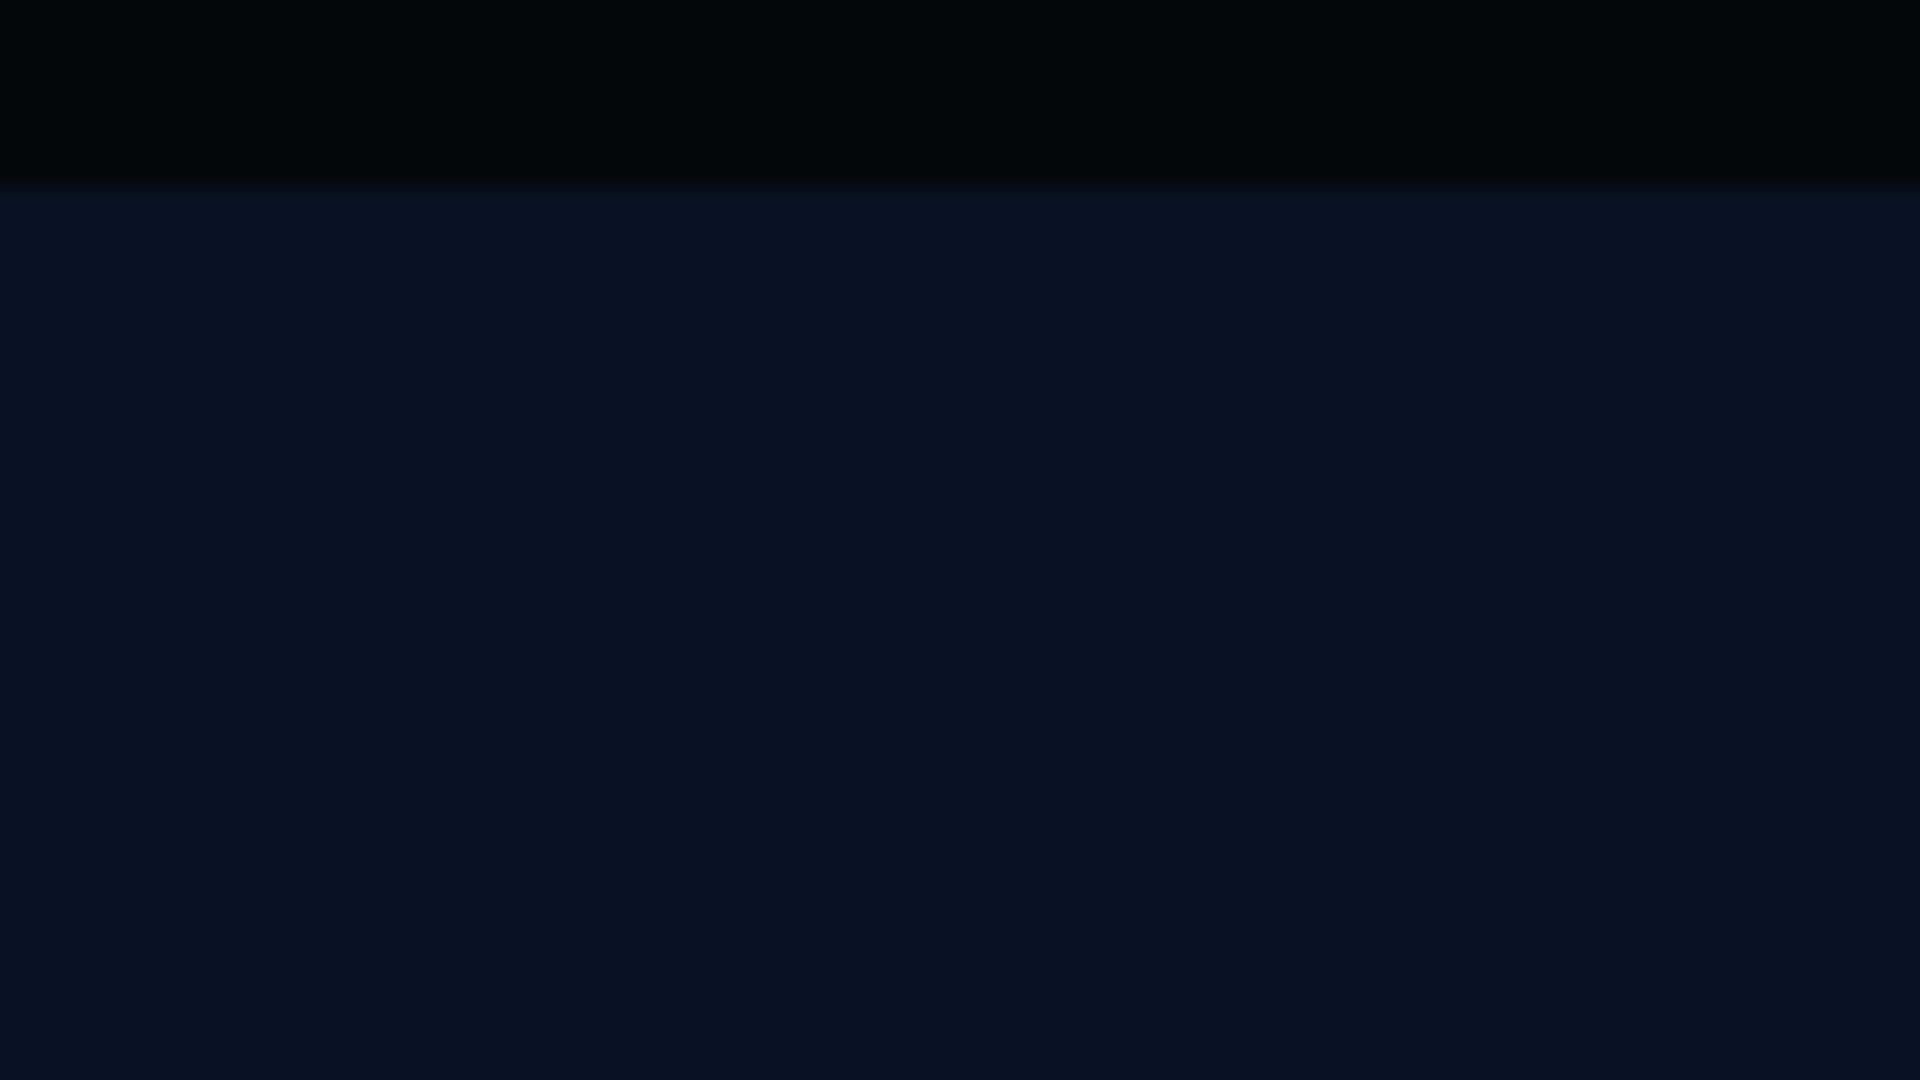
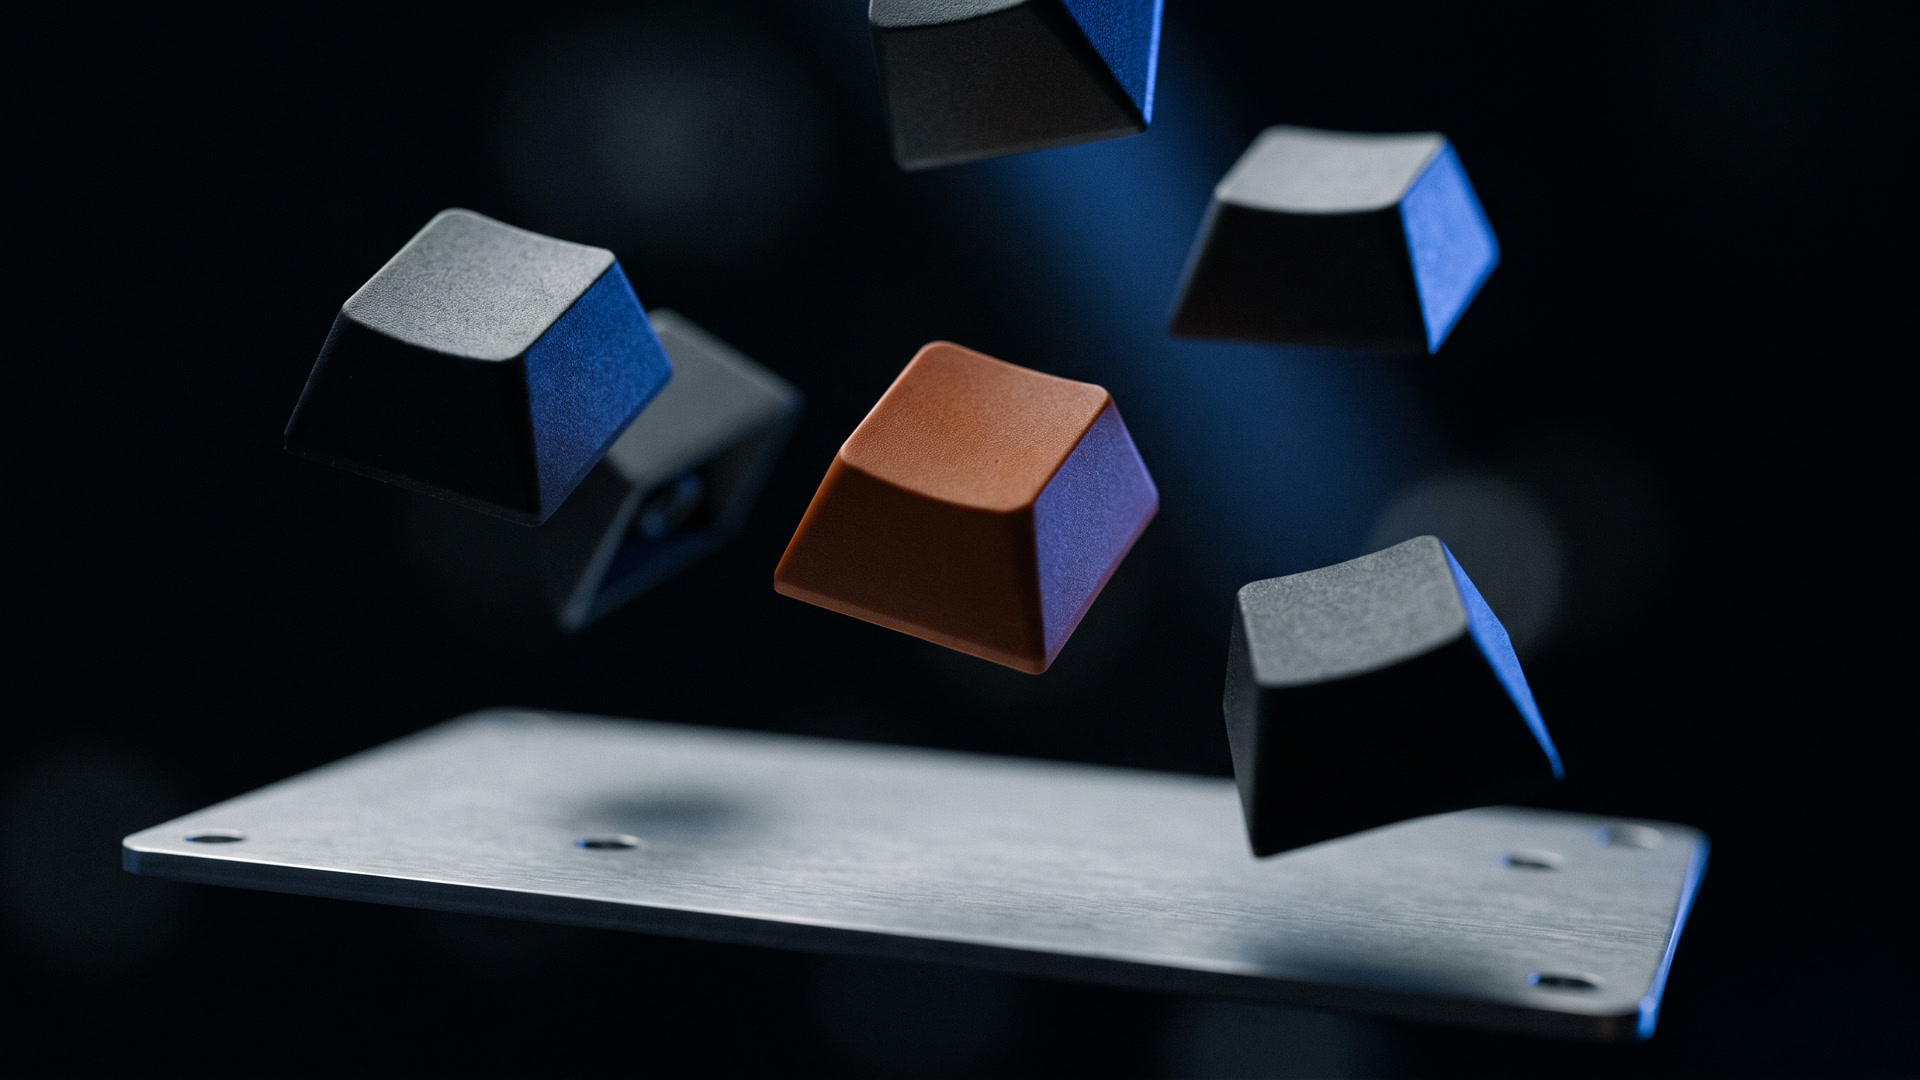
frontend(landing): 히어로 poster를 생성 이미지로 교체, 영상 로드 실패 처리, 미디어 스크립트
- 힉스필드(nano_banana_pro)로 만든 시작 프레임을 hero.jpg / hero-still-a.jpg 로 사용
- useScrubVideo: 모든 <source> 실패 시 failed → 로딩 표시 제거, poster 만 유지
- Hero: 첫 카피가 0%부터 보이도록
- scripts/landing-media.sh: QA 프레임 5장 추출(ffprobe 프레임 수 기준) + 스크러빙용 재인코딩(H.264 GOP6/faststart, VP9, 720p, poster/last/stills)

diff --git a/frontend/src/landing/useScrubVideo.ts b/frontend/src/landing/useScrubVideo.ts
@@ -13,6 +13,7 @@ export function useScrubVideo(progress: MotionValue<number>, enabled = true) {
   const videoRef = useRef<HTMLVideoElement>(null);
   const [ready, setReady] = useState(false);
   const [buffered, setBuffered] = useState(0); // 0..1
+  const [failed, setFailed] = useState(false); // 모든 소스 로드 실패 → poster 만 남긴다
   const target = useRef(0);
   const current = useRef(0);
   const seekPending = useRef(false);
@@ -76,21 +77,31 @@ export function useScrubVideo(progress: MotionValue<number>, enabled = true) {
       if (!Number.isFinite(video.duration) || !video.buffered.length) return;
       setBuffered(Math.min(1, video.buffered.end(video.buffered.length - 1) / video.duration));
     };
+    // <source> 자식을 쓰면 마지막 source 에서 error 가 나고 video 는 NETWORK_NO_SOURCE(3) 가 된다
+    const sources = Array.from(video.querySelectorAll('source'));
+    const onError = () => {
+      if (video.networkState === 3 || video.error) setFailed(true);
+    };
     video.addEventListener('loadedmetadata', onMeta);
     video.addEventListener('seeked', onSeeked);
     video.addEventListener('progress', onProgress);
     video.addEventListener('canplaythrough', onProgress);
+    video.addEventListener('error', onError);
+    sources.forEach((s) => s.addEventListener('error', onError));
     if (video.readyState >= 1) onMeta();
+    if (video.networkState === 3) setFailed(true);
     return () => {
       video.removeEventListener('loadedmetadata', onMeta);
       video.removeEventListener('seeked', onSeeked);
       video.removeEventListener('progress', onProgress);
       video.removeEventListener('canplaythrough', onProgress);
+      video.removeEventListener('error', onError);
+      sources.forEach((s) => s.removeEventListener('error', onError));
       if (raf.current) cancelAnimationFrame(raf.current);
       raf.current = 0;
     };
     // eslint-disable-next-line react-hooks/exhaustive-deps
   }, [enabled]);
 
-  return { videoRef, ready, buffered };
+  return { videoRef, ready, buffered, failed };
 }

diff --git a/frontend/src/landing/Hero.tsx b/frontend/src/landing/Hero.tsx
@@ -19,10 +19,11 @@ function useStage(p: MotionValue<number>, from: number, to: number, fadeIn = 0.0
 
 export default function Hero({ container, sectionRef, reduce, onStart, onExplore }: Props) {
   const { scrollYProgress: p } = useScroll({ container, target: sectionRef, offset: ['start start', 'end end'] });
-  const { videoRef, ready, buffered } = useScrubVideo(p, !reduce);
+  const { videoRef, ready, buffered, failed } = useScrubVideo(p, !reduce);
   const lowBw = useMemo(prefersLowBandwidth, []);
 
-  const s1 = useStage(p, 0.0, 0.3, 0.02, 0.08);
+  // 첫 카피는 0%부터 보이고 30% 직전에 사라진다
+  const s1 = useTransform(p, [0, 0.22, 0.3], [1, 1, 0]);
   const s2 = useStage(p, 0.35, 0.65, 0.08, 0.1);
   const s3 = useTransform(p, [0.75, 0.86], [0, 1]);
   const cta = useTransform(p, [0.85, 0.94], [0, 1]);
@@ -59,7 +60,7 @@ export default function Hero({ container, sectionRef, reduce, onStart, onExplore
               {!lowBw && <source src={MEDIA.hero.webm} type="video/webm" />}
               <source src={lowBw ? MEDIA.hero.mp4Mobile : MEDIA.hero.mp4} type="video/mp4" />
             </video>
-            {buffered < 0.999 && (
+            {!failed && buffered < 0.999 && (
               <div className="uc-hero-load" role="status" aria-live="polite">
                 <span>{ready ? 'BUFFERING' : 'LOADING'}</span>
                 <i style={{ transform: `scaleX(${Math.max(0.04, buffered)})` }} aria-hidden />

diff --git a/docs/logs/2026-09-23.md b/docs/logs/2026-09-23.md
@@ -3,3 +3,4 @@
 ## 작업 내용
 
 - 00:57 시네마틱 랜딩: 스크롤 스크러빙 영상 히어로 + 섹션 7개 스캐폴드, useScrubVideo 훅, LandingScene 제거 (영상은 placeholder, 힉스필드 생성 대기)
+- 01:10 랜딩: 시작 프레임 이미지 생성(nano_banana_pro)→poster 적용, 영상 로드 실패 처리, 미디어 QA/재인코딩 스크립트(scripts/landing-media.sh)
